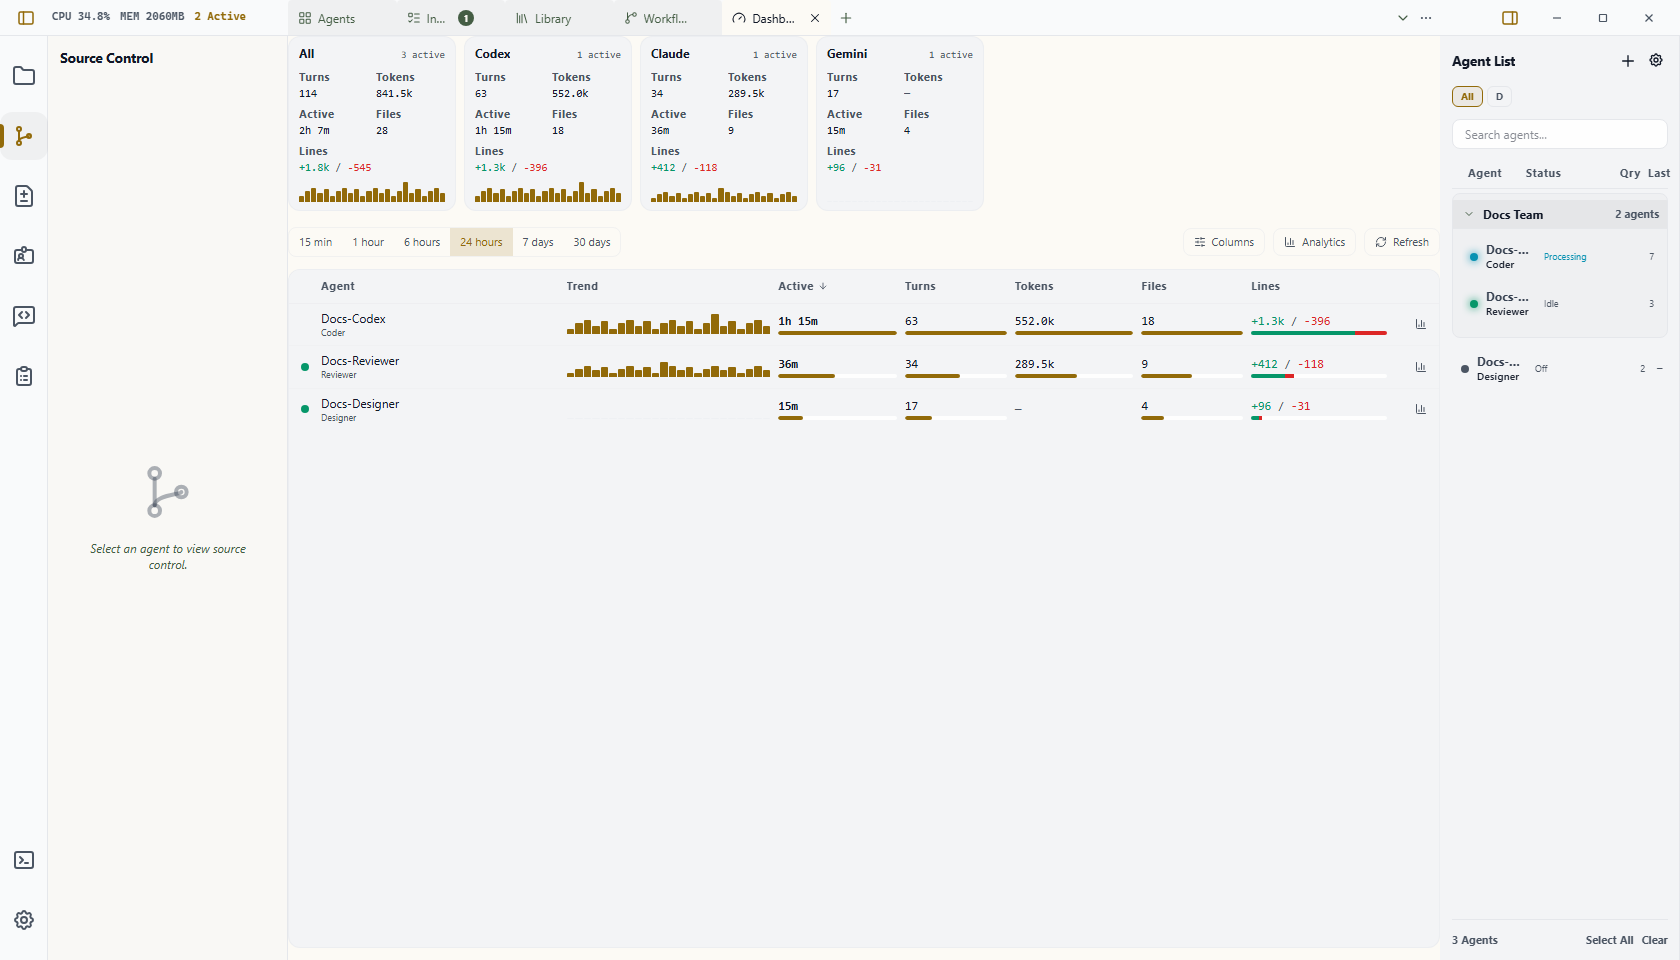
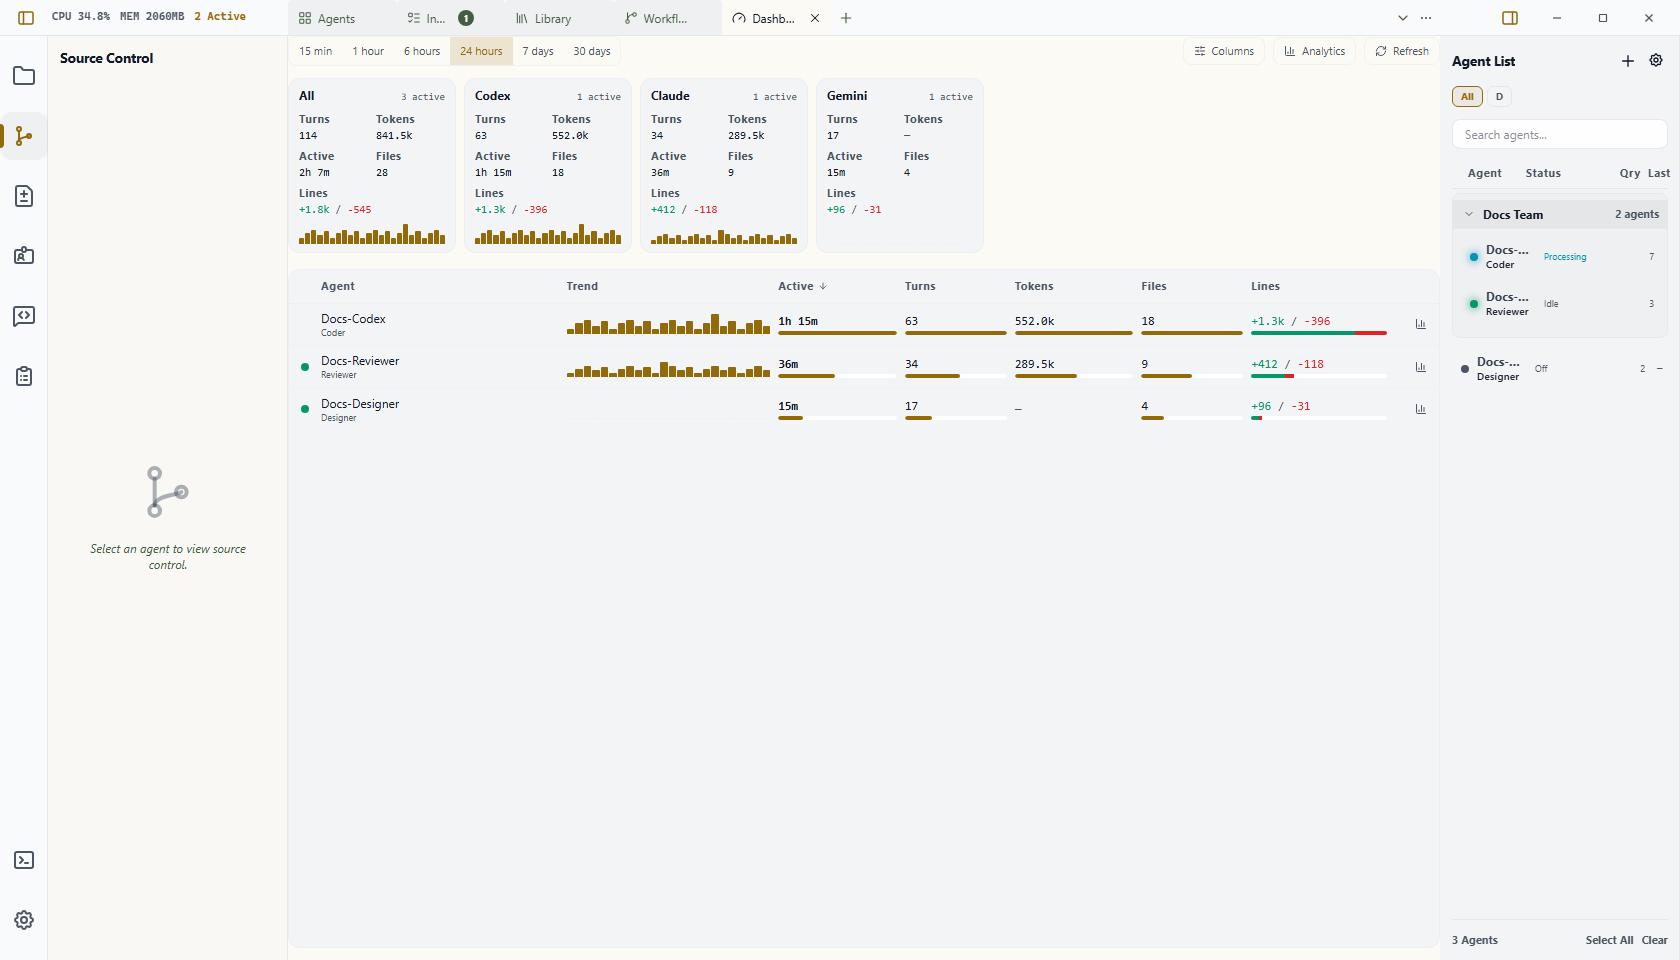
fix(dashboard): put the window control above the strip it governs
The window sat between the provider strip and the fleet table. A scope control
placed between two things it governs reads as governing only the lower one, so
the strip looked like it fell outside the window entirely — inviting its figures
to be read as all-time when every one of them comes from the same
`telemetry_fleet` read at the same `window_minutes` as the rows below.

This trades one scope error for a smaller one. Columns genuinely affects only
the table and now sits above the strip too, but that is the cheaper confusion: a
reader who expects the strip's tiles to be configurable tests it once and
corrects, where a reader who thinks the strip is not window-scoped silently
misreads every figure on it. The picker panel stays down beside the table, and
the button's tooltip names what it configures.

Document order is pinned by tests rather than left to reading the JSX.

diff --git a/src/views/DashboardView.tsx b/src/views/DashboardView.tsx
@@ -140,23 +140,17 @@ export const DashboardView: React.FC<DashboardViewProps> = ({
     // yield, and the table below it shrinks and clips instead of scrolling.
     <div className="dashboard-view flex-1 flex flex-col gap-3 min-h-0 pb-3">
       {/*
-        The space this held empty, now filled with the half of the question that
-        every provider can answer. Account limits are still absent, and for the
-        original reason: only codex publishes one, so a capacity gauge made the
-        surface's shape depend on which vendor the habitat happened to run.
-        Activity has no such dependency — a provider with no token accounting
-        still has turns, active time, files and lines.
-      */}
-      {fleet && (
-        <ProviderStrip
-          habitat={fleet.habitat}
-          providers={fleet.providers}
-          maxima={fleet.provider_maxima}
-          trendMeasure={fleet.trend_measure}
-          grain={fleet.grain}
-        />
-      )}
+        Above the strip, not between it and the table. The window governs every
+        figure on both, and a scope control placed between two things it governs
+        reads as governing only the lower one — which made the strip look like it
+        sat outside the window entirely, so its numbers would be read as all-time.
 
+        The cost is that Columns, which really does only affect the table, now
+        sits above the strip too. That is the cheaper confusion: it is an
+        expectation the reader tests once and corrects, where the other one
+        silently misreads every figure. Its picker stays down beside the table,
+        and its tooltip names what it configures.
+      */}
       <header className="dashboard-view__controls flex items-center gap-2 flex-wrap">
         <div
           className="flex items-center rounded-lg border border-wardian-border/50 overflow-hidden"
@@ -188,7 +182,7 @@ export const DashboardView: React.FC<DashboardViewProps> = ({
           type="button"
           onClick={() => setPicking((open) => !open)}
           aria-expanded={picking}
-          title="Choose columns"
+          title="Choose which columns the table shows"
           className="h-7 px-2.5 flex items-center gap-1.5 rounded-lg border border-wardian-border/50 text-[11px] text-muted-neutral hover:text-primary hover:bg-wardian-card-bg-muted transition-colors"
         >
           <SlidersHorizontal className="w-3 h-3" />
@@ -218,6 +212,25 @@ export const DashboardView: React.FC<DashboardViewProps> = ({
           {refreshing ? "Ingesting…" : "Refresh"}
         </button>
       </header>
+
+      {/*
+        The space this held empty, now filled with the half of the question that
+        every provider can answer. Account limits are still absent, and for the
+        original reason: only codex publishes one, so a capacity gauge made the
+        surface's shape depend on which vendor the habitat happened to run.
+        Activity has no such dependency — a provider with no token accounting
+        still has turns, active time, files and lines.
+      */}
+      {fleet && (
+        <ProviderStrip
+          habitat={fleet.habitat}
+          providers={fleet.providers}
+          maxima={fleet.provider_maxima}
+          trendMeasure={fleet.trend_measure}
+          grain={fleet.grain}
+        />
+      )}
+
 
       {picking && <ColumnPicker prefs={prefs} onChange={update} />}
 

diff --git a/src/views/DashboardView.test.tsx b/src/views/DashboardView.test.tsx
@@ -116,6 +116,42 @@ beforeEach(() => {
   vi.mocked(listen).mockImplementation(() => Promise.resolve(() => {}));
 });
 
+describe("DashboardView layout", () => {
+  it("puts the window control above the strip it governs, not between strip and table", async () => {
+    // The window scopes every figure on both the strip and the table. Sitting
+    // between them, it read as governing only the table — which invites reading
+    // the strip's numbers as all-time.
+    respondWith();
+    render(<DashboardView />);
+    await waitFor(() =>
+      expect(screen.getByRole("group", { name: "Activity by provider" })).toBeInTheDocument(),
+    );
+
+    const window = screen.getByRole("group", { name: "Window" });
+    const strip = screen.getByRole("group", { name: "Activity by provider" });
+
+    // DOCUMENT_POSITION_FOLLOWING: the strip comes after the window control.
+    expect(window.compareDocumentPosition(strip) & Node.DOCUMENT_POSITION_FOLLOWING)
+      .toBeTruthy();
+  });
+
+  it("keeps the column picker beside the table it configures", async () => {
+    // Columns affects only the table. The button rides in the header above the
+    // strip, so the panel it opens is what says which element it belongs to.
+    respondWith();
+    render(<DashboardView />);
+    await waitFor(() => expect(screen.getByText("Wardian-Codex")).toBeInTheDocument());
+
+    await userEvent.click(screen.getByRole("button", { name: /Columns/ }));
+
+    const strip = screen.getByRole("group", { name: "Activity by provider" });
+    const picker = document.querySelector(".dashboard-view__picker");
+    expect(picker).not.toBeNull();
+    expect(strip.compareDocumentPosition(picker!) & Node.DOCUMENT_POSITION_FOLLOWING)
+      .toBeTruthy();
+  });
+});
+
 describe("DashboardView refresh", () => {
   it("shows figures from after the ingest, not from a read already in flight", async () => {
     // Reads are coalesced so a backstop poll and a `telemetry-updated` event

diff --git a/docs/specs/2026-08-20-dashboard-provider-activity-strip.md b/docs/specs/2026-08-20-dashboard-provider-activity-strip.md
@@ -293,10 +293,28 @@ comparable to its parts.
 
 The habitat card carries a `title` saying its trend is scaled to itself.
 
+### Where the controls sit
+
+The window control moves **above** the strip, where it used to sit between the
+strip and the table.
+
+A scope control placed between two things it governs reads as governing only the
+lower one. Every figure on the strip comes from the same `telemetry_fleet` read
+at the same `window_minutes` as the rows beneath it, but the old sequencing made
+the strip look like it sat outside the window entirely — inviting the reader to
+take its numbers as all-time.
+
+This trades one scope error for a smaller one: **Columns** genuinely affects only
+the table, and it now sits above the strip too. That is the cheaper confusion.
+A reader who expects the strip's tiles to be configurable tests it once and
+corrects; a reader who thinks the strip is not window-scoped silently misreads
+every figure on it. The picker panel stays down beside the table, and the
+button's tooltip names what it configures.
+
 ### Frontend
 
 - New component `src/features/telemetry/ProviderStrip.tsx`, rendered in place of
-  the `dashboard-view__reserved` div at `src/views/DashboardView.tsx:141`.
+  the `dashboard-view__reserved` div in `src/views/DashboardView.tsx`.
 - Reuses the exported `Sparkline` from `DashboardView.tsx`. Tiles are label plus
   figure with **no bar** — a bar per tile would put six competing scales inside
   one card and the card would stop being glanceable.
@@ -331,6 +349,7 @@ The habitat card carries a `title` saying its trend is scaled to itself.
 | `cargo test` | A measure matching no rows is answered as empty rather than absent |
 | `npm run test` | `useCoalescedRead`: concurrent reads join, sequential reads do not, a changed question does not join, a rejection releases the slot |
 | `npm run test` | Refresh settles on post-ingest figures with a poll's read held open across the ingest |
+| `npm run test` | The window control precedes the strip in document order, and the column picker follows it |
 | `cargo test` | The fleet read never takes the global DB mutex twice, under a timeout |
 | Browser E2E | Strip order, unreported provider, dimmed silent provider, and real horizontal overflow at a narrow viewport |
 | `npm run test` | `ProviderStrip.test.tsx`: `All` renders first; unreported tokens render the dash; idle providers render dimmed and last |

diff --git a/docs/guide/dashboard.md b/docs/guide/dashboard.md
@@ -22,14 +22,16 @@ For "exactly how much did this agent do between Tuesday and Friday", use [Analyt
 2. Press `Ctrl+P` / `Cmd+P`, select a pane's **+** button, or use an empty-pane Home state, then choose **Dashboard**. `Ctrl+Alt+D` opens it directly.
 3. Scan the rows. Each quantitative cell carries an inline bar or sparkline beside its number.
 4. Set the trailing **window** from the header when the default 24 hours is the wrong span for what you are watching.
-5. Use **Columns** to add or remove measures. Your choice is remembered per Dashboard, so two Dashboards can watch different things.
+5. Use **Columns** to add or remove measures *in the table*. Your choice is remembered per Dashboard, so two Dashboards can watch different things. The provider strip above is not affected; it always carries the same six figures.
 
 Dashboard is a singleton surface. Opening it again focuses its existing tab instead of creating a duplicate.
 
 ## The Provider Strip
 
 Above the table is a row of cards, one per provider, covering the same window and
-carrying the same trend measure as the table below.
+carrying the same trend measure as the table below. The window control sits above
+both, because it governs both — change it and every figure on the strip moves
+with the rows.
 
 The table answers *which agent is doing what*. The strip answers *which provider
 am I running on* — a question you cannot get from the rows, because with a dozen
